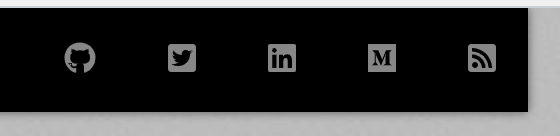
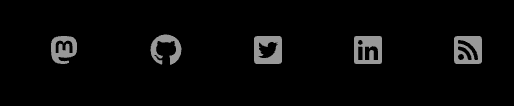
Update readme with mastodon social

diff --git a/README.md b/README.md
@@ -18,7 +18,7 @@ This theme is by no means complete. I have added to it over the last six years a
 
 This is a two column theme with a navbar at the top and a sidebar to the right. The navbar contains links to major pages and links to social networks. The sidebar contains an about section, a section with the last 10 posts and finally a section which lists tags used across your site.
 
-### Beautiful tables and images through purecss.
+### Beautiful tables and images through purecss
 
 ![Beautiful tables](https://raw.githubusercontent.com/pravin/hugo-theme-prav/master/images/table.png)
 
@@ -97,6 +97,7 @@ pygmentsStyle = "perldoc"
   medium = "https://www.medium.com/@example"
   github = "https://github.com/example"
   linkedin = "http://uk.linkedin.com/in/example"
+  mastodon = "https://mstdn.social/example"
 
 
 # Set unsafe mode to allow markdownify to work with goldmark
